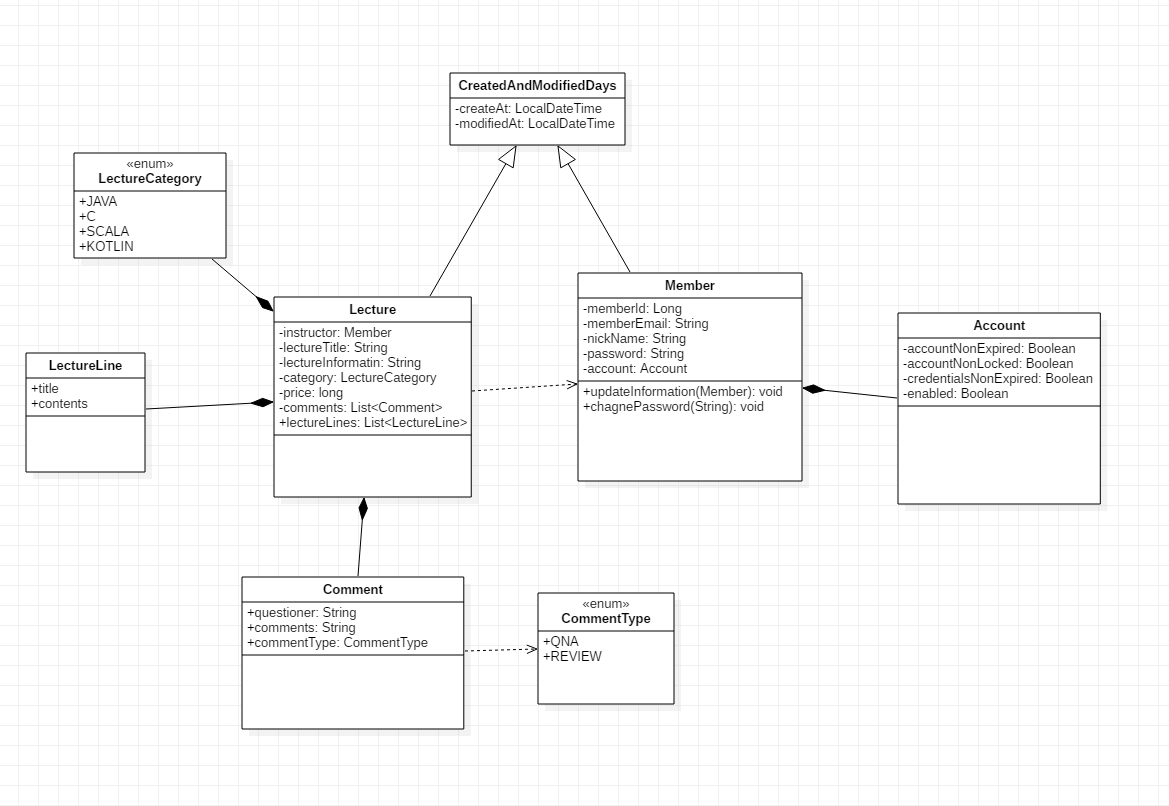
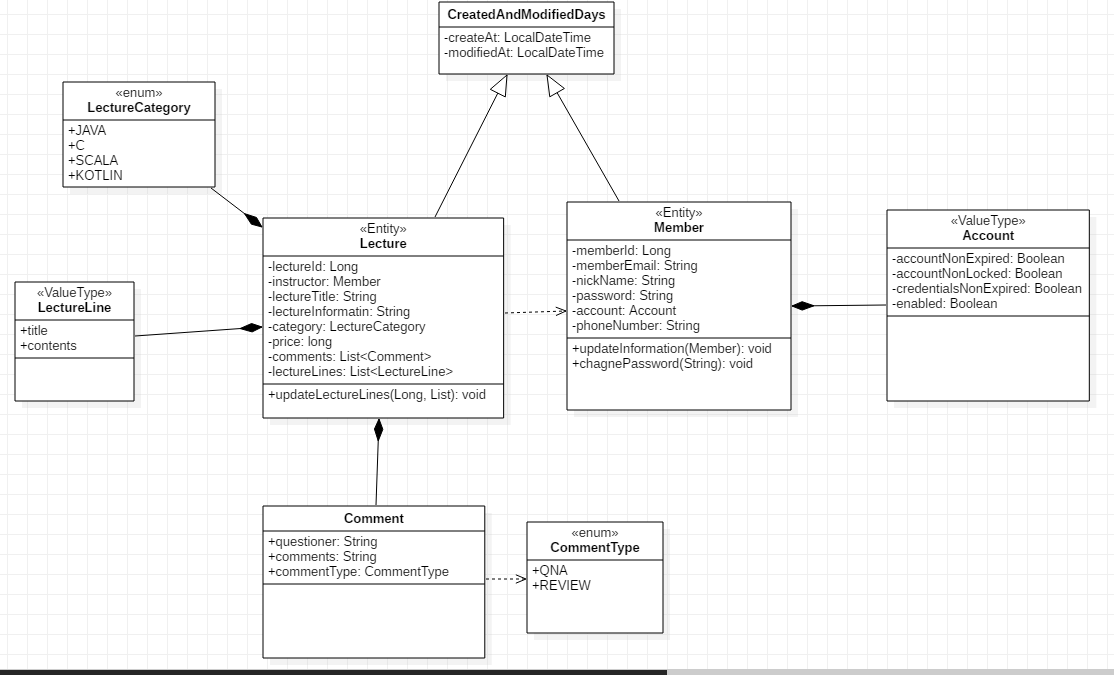
1. LectureLines 수정 도메인로직 추가 및 테스트

diff --git a/src/test/java/com/dhk/jpabase/application/LectureServiceTest.java b/src/test/java/com/dhk/jpabase/application/LectureServiceTest.java
@@ -1,5 +1,6 @@
-package com.dhk.jpabase.domain.repository;
+package com.dhk.jpabase.application;
 
+import com.dhk.jpabase.application.lecture.LectureChanger;
 import com.dhk.jpabase.domain.lecture.entity.Lecture;
 import com.dhk.jpabase.domain.lecture.entity.LectureCategory;
 import com.dhk.jpabase.domain.lecture.entity.LectureLine;
@@ -13,23 +14,22 @@ import org.junit.Test;
 import org.junit.runner.RunWith;
 import org.springframework.beans.factory.annotation.Autowired;
 import org.springframework.boot.test.context.SpringBootTest;
-import org.springframework.test.annotation.Rollback;
 import org.springframework.test.context.junit4.SpringRunner;
 
-import javax.transaction.Transactional;
 import java.math.BigDecimal;
 import java.util.ArrayList;
 import java.util.List;
 import java.util.Optional;
 
-import static org.assertj.core.api.AssertionsForClassTypes.assertThat;
+import static org.hamcrest.MatcherAssert.assertThat;
 import static org.hamcrest.Matchers.hasSize;
-import static org.junit.Assert.assertThat;
 
 @RunWith(SpringRunner.class)
 @SpringBootTest
-@Transactional
-public class LectureRepositoryTest {
+public class LectureServiceTest {
+
+    @Autowired
+    private LectureChanger lectureChanger;
 
     @Autowired
     private LectureRepository lectureRepository;
@@ -41,58 +41,27 @@ public class LectureRepositoryTest {
 
     @Before
     public void setUp(){
-       lecture = createLecture();
+        lecture = createLecture();
     }
 
-
     @Test
-    public void saveLecture(){
-        //Given & When
-        Lecture savedLecture = lectureRepository.save(lecture);
-
-        //Them
-        assertThat(savedLecture).isNotNull();
-        assertThat(savedLecture.getLectureId()).isNotNull();
-        assertThat(savedLecture.getInstructor()).isNotNull();
-        assertThat(savedLecture.getCategory()).isEqualTo(lecture.getCategory());
-        assertThat(savedLecture.getLectureInformation()).isEqualTo(lecture.getLectureInformation());
-        assertThat(savedLecture.getLectureClassName()).isEqualTo(lecture.getLectureClassName());
-        assertThat(savedLecture.getPrice()).isEqualTo(lecture.getPrice());
-        assertThat(savedLecture.getCreatedAt()).isEqualTo(lecture.getCreatedAt());
-        assertThat(savedLecture.getLectureLines().size()).isNotNull();
-    }
-
-
-    @Test
-    public void getLecture(){
+    public void LectureLinesUpdate() {
         //Given
         Lecture savedLecture = lectureRepository.save(lecture);
+
+        List<LectureLine> updateLines = new ArrayList<>();
+        updateLines.add(new LectureLine("제 1장 오리엔테이션", "내용"));
+        updateLines.add(new LectureLine("제 2장 학습목표", "내용"));
+        updateLines.add(new LectureLine("제 3장 객체", "내용"));
 
         //When
-        Optional<Lecture> optionalLecture = lectureRepository.findById(savedLecture.getLectureId());
-        Lecture result = optionalLecture.get();
+        lectureChanger.updateLectureLines(savedLecture.getLectureId(), updateLines);
+        Optional<Lecture> optional = lectureRepository.findById(savedLecture.getLectureId());
+        Lecture result = optional.get();
 
         //Then
-        assertThat(result.getLectureId()).isEqualTo(savedLecture.getLectureId());
-        assertThat(result.getLectureClassName()).isEqualTo(savedLecture.getLectureClassName());
-        assertThat(result.getPrice()).isEqualTo(savedLecture.getPrice());
-        assertThat(result.getLectureInformation()).isEqualTo(savedLecture.getLectureInformation());
-        assertThat(result.getInstructor().getMemberId()).isEqualTo(savedLecture.getInstructor().getMemberId());
-        assertThat(result.getLectureLines(), hasSize(2));
+        assertThat(result.getLectureLines(), hasSize(3));
     }
-
-    @Test
-    public void deleteLecture(){
-        //Given
-        Lecture savedLecture = lectureRepository.save(lecture);
-
-        //When & THen
-        lectureRepository.deleteById(savedLecture.getLectureId());
-
-        System.out.println(lectureRepository.count());
-        assertThat(lectureRepository.count()).isEqualTo(0);
-    }
-
 
     private Lecture createLecture() {
         List<LectureLine> list = new ArrayList<>();
@@ -121,6 +90,5 @@ public class LectureRepositoryTest {
         Member member = builder.nextObject(Member.class, "memberId");
         return memberRepository.save(member);
     }
-
 
 }

diff --git a/src/main/java/com/dhk/jpabase/domain/lecture/entity/Lecture.java b/src/main/java/com/dhk/jpabase/domain/lecture/entity/Lecture.java
@@ -6,17 +6,19 @@ import lombok.*;
 
 import javax.persistence.*;
 import java.math.BigDecimal;
-import java.util.HashSet;
-import java.util.Set;
+import java.util.ArrayList;
+import java.util.List;
 
 @Entity
-@Builder @Getter
+@Builder
+@Getter
 @AllArgsConstructor(access = AccessLevel.PRIVATE)
-@NoArgsConstructor(access =AccessLevel.PROTECTED)
+@NoArgsConstructor(access = AccessLevel.PROTECTED)
 @Table(schema = "jpa", name = "lectures")
 public class Lecture extends BaseTime {
 
-    @Id @GeneratedValue(strategy = GenerationType.IDENTITY)
+    @Id
+    @GeneratedValue(strategy = GenerationType.IDENTITY)
     private Long lectureId;
 
     @ManyToOne
@@ -30,8 +32,14 @@ public class Lecture extends BaseTime {
     private LectureCategory category;
     private BigDecimal price;
 
-    @ElementCollection
-    @CollectionTable(name = "lectureLines", joinColumns = @JoinColumn(name="lectureId"))
-    private Set<LectureLine> lectureLines = new HashSet<>();
+    @ElementCollection(fetch = FetchType.EAGER)
+    @CollectionTable(name = "lectureLines", joinColumns = @JoinColumn(name = "lectureId"))
+    private List<LectureLine> lectureLines = new ArrayList<>();
 
+    public void updateLectureLines(List<LectureLine> newLectureLines) {
+        if (newLectureLines == null || newLectureLines.size() == 0) {
+            throw new IllegalArgumentException();
+        }
+        this.lectureLines = newLectureLines;
+    }
 }

diff --git a/src/main/java/com/dhk/jpabase/application/lecture/LectureChanger.java b/src/main/java/com/dhk/jpabase/application/lecture/LectureChanger.java
@@ -1,0 +1,25 @@
+package com.dhk.jpabase.application.lecture;
+
+import com.dhk.jpabase.domain.lecture.entity.Lecture;
+import com.dhk.jpabase.domain.lecture.entity.LectureLine;
+import com.dhk.jpabase.domain.lecture.repository.LectureRepository;
+import lombok.RequiredArgsConstructor;
+import org.springframework.stereotype.Service;
+
+import javax.transaction.Transactional;
+import java.util.List;
+
+@Service
+@RequiredArgsConstructor
+@Transactional
+public class LectureChanger {
+
+    private final LectureRepository lectureRepository;
+
+    public void updateLectureLines(final Long lectureId, List<LectureLine> updateLectureLines){
+       Lecture lecture = lectureRepository.findById(lectureId)
+                    .orElseThrow(() -> new IllegalArgumentException());
+
+       lecture.updateLectureLines(updateLectureLines);
+    }
+}

diff --git a/src/main/java/com/dhk/jpabase/application/member/MemberFinder.java b/src/main/java/com/dhk/jpabase/application/member/MemberFinder.java
@@ -1,18 +1,19 @@
-package com.dhk.jpabase.application;
+package com.dhk.jpabase.application.member;
 
 import com.dhk.jpabase.domain.member.entity.Member;
 import com.dhk.jpabase.domain.member.repository.MemberRepository;
+import lombok.RequiredArgsConstructor;
 import org.springframework.beans.factory.annotation.Autowired;
 import org.springframework.stereotype.Service;
 
 import javax.transaction.Transactional;
 
 @Service
+@RequiredArgsConstructor
 @Transactional
 public class MemberFinder {
 
-    @Autowired
-    private MemberRepository memberRepository;
+    private final MemberRepository memberRepository;
 
     public Member findByMemberEmail(final String memberEmail) {
         final Member member = memberRepository.findByMemberEmail(memberEmail)

diff --git a/src/test/java/com/dhk/jpabase/application/MemberFinderTest.java b/src/test/java/com/dhk/jpabase/application/MemberFinderTest.java
@@ -1,6 +1,7 @@
 package com.dhk.jpabase.application;
 
 
+import com.dhk.jpabase.application.member.MemberFinder;
 import org.junit.Test;
 import org.junit.runner.RunWith;
 import org.springframework.beans.factory.annotation.Autowired;
@@ -8,8 +9,6 @@ import org.springframework.boot.test.context.SpringBootTest;
 import org.springframework.test.context.junit4.SpringRunner;
 
 import javax.transaction.Transactional;
-
-import static org.mockito.BDDMockito.given;
 
 @RunWith(SpringRunner.class)
 @SpringBootTest
